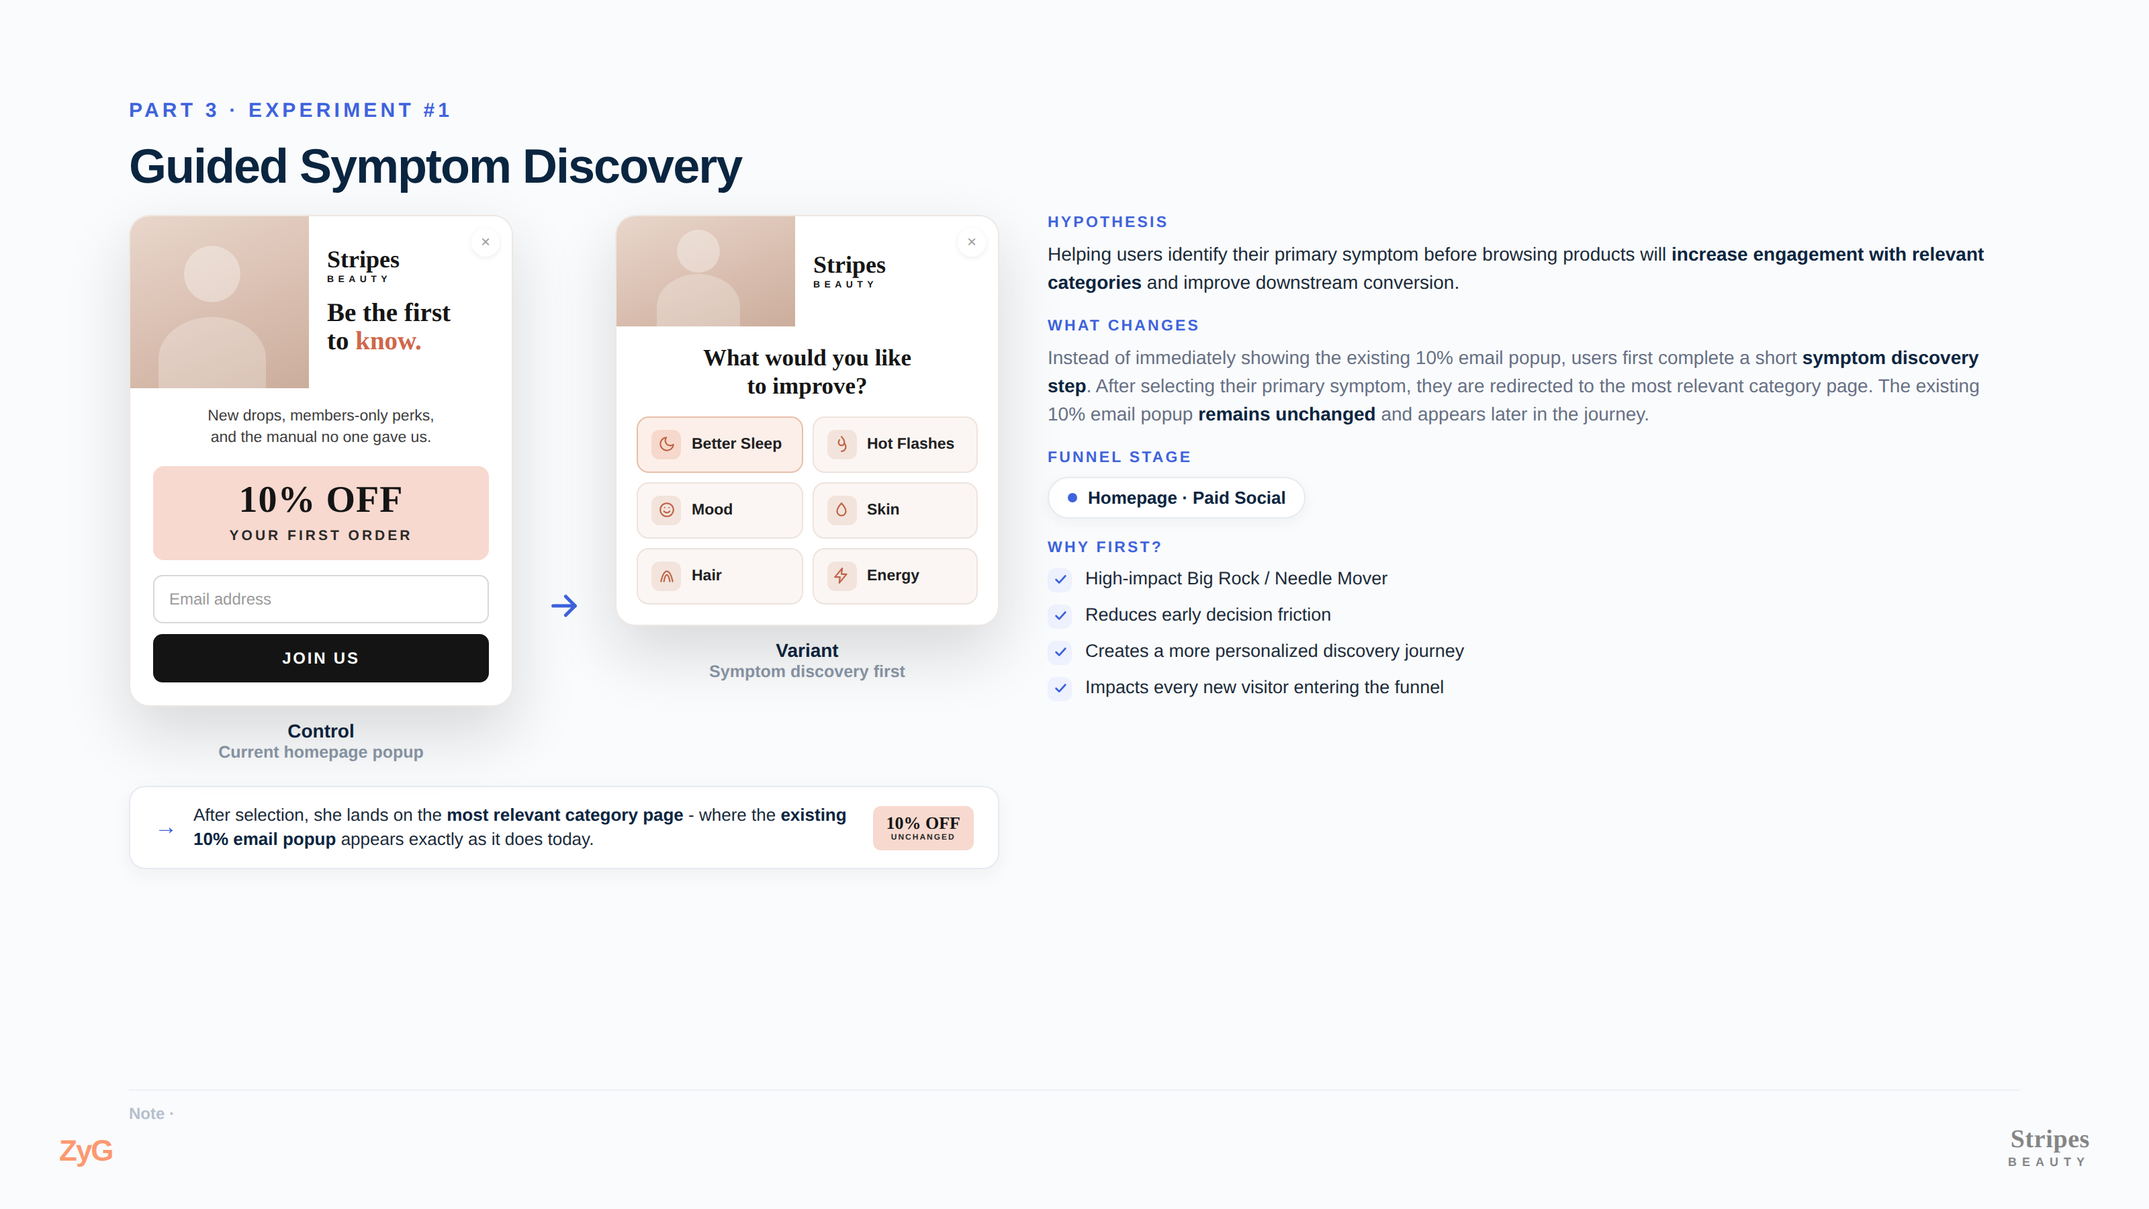
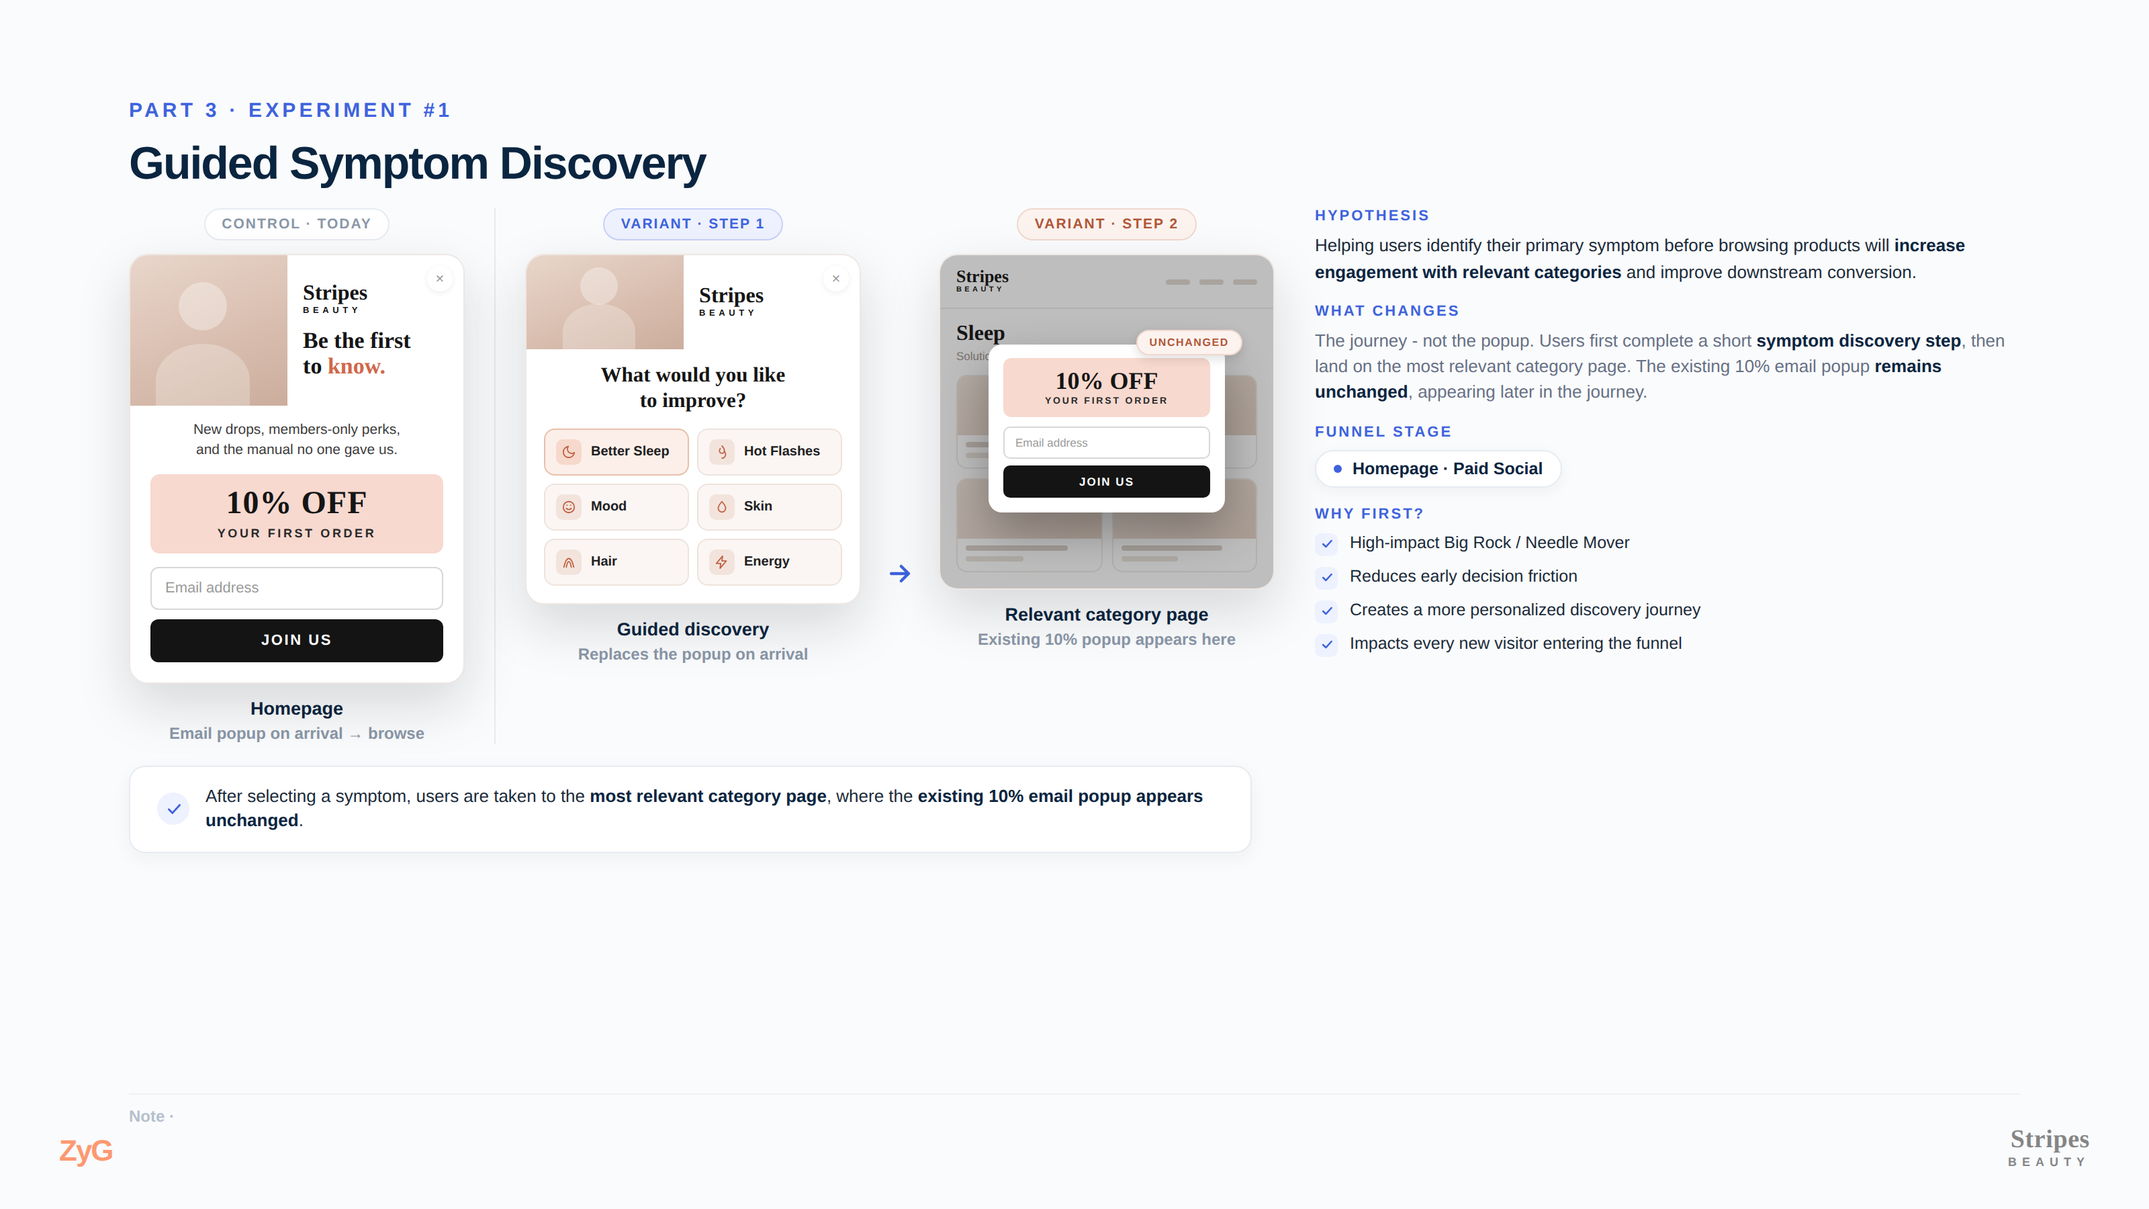
Exp 1: reframe visuals as journey change, not popup swap
Variant now shows two steps - symptom discovery modal, then the relevant
category page mock with the existing 10% popup overlaid and tagged UNCHANGED.
Step tags (Control/Variant step 1/step 2), new bottom callout sentence.

Claude-Session: https://claude.ai/code/session_01GoAG3ySswQXo2H1hh5EwTk

Changed region(s): [[0.0625, 0.1244, 0.9375, 0.7156], [0.3438, 0.4356, 0.375, 0.4667]]

diff --git a/diagrams/slides/p3-02-exp1.html b/diagrams/slides/p3-02-exp1.html
@@ -1,87 +1,116 @@
 <!doctype html><html><head><meta charset="utf-8"><link rel="stylesheet" href="style.css">
 <style>
-  .stage{display:flex;gap:36px;margin-top:16px;flex:1;align-items:flex-start;}
+  .stage{display:flex;gap:30px;margin-top:14px;flex:1;align-items:flex-start;}
 
-  /* ---- left: visual comparison ---- */
-  .mocks{display:flex;gap:24px;align-items:flex-start;}
+  /* ---- left: journey comparison ---- */
+  .mocks{display:flex;gap:18px;align-items:flex-start;}
   .mcol{display:flex;flex-direction:column;align-items:center;}
-  .cap{text-align:center;margin-top:10px;font-size:12.5px;font-weight:600;color:var(--faint);}
-  .cap b{display:block;font-size:14px;color:var(--navy);font-weight:700;margin-bottom:1px;}
-  .varrow{align-self:center;color:var(--blue);margin-top:180px;}
-  .varrow svg{width:28px;height:28px;}
+  .steptag{font-size:10.5px;font-weight:700;letter-spacing:1px;text-transform:uppercase;color:var(--faint);background:#fff;border:1px solid var(--line);border-radius:999px;padding:5px 12px;margin-bottom:10px;}
+  .steptag.new{color:var(--blue);border-color:#C7D2F7;background:var(--blue-soft);}
+  .steptag.keep{color:#B15738;border-color:#F1D8CE;background:#FCF3EF;}
+  .cap{text-align:center;margin-top:10px;font-size:12px;font-weight:600;color:var(--faint);line-height:1.35;}
+  .cap b{display:block;font-size:13.5px;color:var(--navy);font-weight:700;margin-bottom:1px;}
+  .jarrow{align-self:center;color:var(--blue);margin-top:150px;flex-shrink:0;}
+  .jarrow svg{width:22px;height:22px;}
+  .divide{width:1px;background:var(--line);align-self:stretch;margin:0 4px;}
 
-  .pop{width:286px;background:#fff;border-radius:15px;overflow:hidden;position:relative;
-    border:1px solid #EEE7E3;box-shadow:0 20px 48px rgba(20,20,20,.15);font-family:'Helvetica Neue',Arial,sans-serif;}
-  .pop .x{position:absolute;top:9px;right:9px;width:21px;height:21px;border-radius:50%;
-    background:rgba(255,255,255,.92);display:flex;align-items:center;justify-content:center;color:#9a9a9a;font-size:12px;z-index:3;box-shadow:0 1px 4px rgba(0,0,0,.08);}
+  .pop{width:250px;background:#fff;border-radius:14px;overflow:hidden;position:relative;
+    border:1px solid #EEE7E3;box-shadow:0 16px 40px rgba(20,20,20,.15);font-family:'Helvetica Neue',Arial,sans-serif;}
+  .pop .x{position:absolute;top:8px;right:8px;width:19px;height:19px;border-radius:50%;
+    background:rgba(255,255,255,.92);display:flex;align-items:center;justify-content:center;color:#9a9a9a;font-size:11px;z-index:3;box-shadow:0 1px 4px rgba(0,0,0,.08);}
   .coral{color:#D0674A;}
-  .ban{display:flex;height:128px;}
+  .ban{display:flex;height:112px;}
   .ban .photo{width:47%;position:relative;background:linear-gradient(158deg,#E9D6CB 0%,#D8BDAE 60%,#CBAd9c 100%);overflow:hidden;}
-  .ban .photo::after{content:"";position:absolute;left:46%;top:34%;transform:translate(-50%,-50%);width:42px;height:42px;border-radius:50%;background:rgba(255,255,255,.34);}
-  .ban .photo::before{content:"";position:absolute;left:46%;bottom:-9px;transform:translateX(-50%);width:80px;height:62px;border-radius:52% 52% 0 0;background:rgba(255,255,255,.26);}
-  .ban .txt{flex:1;background:#fff;display:flex;flex-direction:column;justify-content:center;padding:0 13px;}
+  .ban .photo::after{content:"";position:absolute;left:46%;top:34%;transform:translate(-50%,-50%);width:36px;height:36px;border-radius:50%;background:rgba(255,255,255,.34);}
+  .ban .photo::before{content:"";position:absolute;left:46%;bottom:-8px;transform:translateX(-50%);width:70px;height:54px;border-radius:52% 52% 0 0;background:rgba(255,255,255,.26);}
+  .ban .txt{flex:1;background:#fff;display:flex;flex-direction:column;justify-content:center;padding:0 12px;}
   .brand{line-height:1;}
-  .brand .w{font-family:Georgia,serif;font-weight:700;font-size:18px;color:#151515;}
-  .brand .b{font-size:7px;font-weight:700;letter-spacing:3.2px;color:#151515;margin-top:3px;}
-  .ban .head{font-family:Georgia,serif;font-size:19.5px;font-weight:700;color:#151515;line-height:1.08;margin-top:11px;}
-  .body{padding:13px 17px 17px;}
-  .sub{text-align:center;font-size:11.5px;color:#3d3d3d;line-height:1.45;}
-  .band{background:#F7D9CF;border-radius:8px;text-align:center;padding:12px 10px;margin-top:12px;}
-  .band .off{font-family:Georgia,serif;font-size:28px;font-weight:700;color:#151515;line-height:1;letter-spacing:.5px;}
-  .band .sm{font-size:10.5px;font-weight:600;letter-spacing:2px;color:#2a2a2a;margin-top:6px;}
-  .inp{margin-top:11px;border:1px solid #D8D8D8;border-radius:7px;padding:10px 11px;font-size:12px;color:#9a9a9a;}
-  .btn{margin-top:8px;background:#141414;color:#fff;text-align:center;border-radius:7px;padding:11px;font-size:12px;font-weight:700;letter-spacing:1.4px;}
+  .brand .w{font-family:Georgia,serif;font-weight:700;font-size:16px;color:#151515;}
+  .brand .b{font-size:6.5px;font-weight:700;letter-spacing:2.8px;color:#151515;margin-top:2px;}
+  .ban .head{font-family:Georgia,serif;font-size:17px;font-weight:700;color:#151515;line-height:1.08;margin-top:10px;}
+  .body{padding:11px 15px 15px;}
+  .sub{text-align:center;font-size:10.5px;color:#3d3d3d;line-height:1.4;}
+  .band{background:#F7D9CF;border-radius:7px;text-align:center;padding:10px 8px;margin-top:10px;}
+  .band .off{font-family:Georgia,serif;font-size:24px;font-weight:700;color:#151515;line-height:1;letter-spacing:.5px;}
+  .band .sm{font-size:9px;font-weight:600;letter-spacing:1.8px;color:#2a2a2a;margin-top:5px;}
+  .inp{margin-top:10px;border:1px solid #D8D8D8;border-radius:6px;padding:9px 10px;font-size:11px;color:#9a9a9a;}
+  .btn{margin-top:7px;background:#141414;color:#fff;text-align:center;border-radius:6px;padding:10px;font-size:11px;font-weight:700;letter-spacing:1.3px;}
 
   /* variant modal */
-  .ban.slim{height:82px;}
-  .ban.slim .photo::after{top:32%;width:32px;height:32px;}
-  .ban.slim .photo::before{width:62px;height:48px;}
+  .ban.slim{height:70px;}
+  .ban.slim .photo::after{top:32%;width:28px;height:28px;}
+  .ban.slim .photo::before{width:54px;height:42px;}
   .ban.slim .head{display:none;}
-  .qwrap{padding:13px 15px 15px;}
-  .q{font-family:Georgia,serif;font-size:17.5px;font-weight:700;color:#151515;line-height:1.2;text-align:center;}
-  .opts{margin-top:12px;display:grid;grid-template-columns:1fr 1fr;gap:7px;}
-  .opt{display:flex;align-items:center;gap:8px;background:#FBF6F3;border:1px solid #EEE3DD;border-radius:9px;padding:9px 10px;}
+  .qwrap{padding:11px 13px 13px;}
+  .q{font-family:Georgia,serif;font-size:15.5px;font-weight:700;color:#151515;line-height:1.2;text-align:center;}
+  .opts{margin-top:10px;display:grid;grid-template-columns:1fr 1fr;gap:6px;}
+  .opt{display:flex;align-items:center;gap:7px;background:#FBF6F3;border:1px solid #EEE3DD;border-radius:8px;padding:7px 8px;}
   .opt.sel{background:#FCEFE9;border-color:#E8BFA9;}
-  .opt .ic{width:22px;height:22px;border-radius:6px;background:#F2E4DC;display:flex;align-items:center;justify-content:center;color:#C06246;flex-shrink:0;}
+  .opt .ic{width:19px;height:19px;border-radius:5px;background:#F2E4DC;display:flex;align-items:center;justify-content:center;color:#C06246;flex-shrink:0;}
   .opt.sel .ic{background:#F6D9CC;}
-  .opt .ic svg{width:13px;height:13px;}
-  .opt .lb{font-size:11.5px;font-weight:600;color:#20201f;}
+  .opt .ic svg{width:11px;height:11px;}
+  .opt .lb{font-size:10px;font-weight:600;color:#20201f;}
 
-  /* after-selection strip */
-  .after{display:flex;align-items:center;gap:12px;margin-top:18px;background:#fff;border:1px solid var(--line);border-radius:12px;padding:12px 18px;box-shadow:0 4px 14px rgba(16,42,77,.05);width:648px;}
-  .after .aarr{color:var(--blue);font-size:17px;font-weight:700;flex-shrink:0;}
-  .after .t{font-size:13px;color:var(--ink);line-height:1.4;}
-  .after .t b{color:var(--navy);font-weight:700;}
-  .after .thumb{margin-left:auto;flex-shrink:0;background:#F7D9CF;border-radius:6px;padding:6px 10px;text-align:center;}
-  .after .thumb .o{font-family:Georgia,serif;font-size:13px;font-weight:700;color:#151515;line-height:1;}
-  .after .thumb .s{font-size:6px;font-weight:700;letter-spacing:1px;color:#2a2a2a;margin-top:2px;}
+  /* category page mock */
+  .page{width:250px;background:#fff;border-radius:14px;overflow:hidden;position:relative;
+    border:1px solid #EEE7E3;box-shadow:0 16px 40px rgba(20,20,20,.15);font-family:'Helvetica Neue',Arial,sans-serif;}
+  .nav{display:flex;align-items:center;justify-content:space-between;padding:9px 12px;border-bottom:1px solid #F0EAE6;}
+  .nav .brand .w{font-size:13px;}
+  .nav .brand .b{font-size:5.5px;letter-spacing:2.2px;}
+  .nav .links{display:flex;gap:7px;}
+  .nav .links span{width:18px;height:4px;border-radius:2px;background:#E4DAD3;}
+  .cat{padding:10px 12px 12px;}
+  .cat .ttl{font-family:Georgia,serif;font-size:16px;font-weight:700;color:#151515;}
+  .cat .sub2{font-size:8.5px;color:#a2968e;margin-top:2px;}
+  .grid{display:grid;grid-template-columns:1fr 1fr;gap:7px;margin-top:9px;}
+  .prod{border:1px solid #F0EAE6;border-radius:8px;overflow:hidden;}
+  .prod .im{height:44px;background:linear-gradient(150deg,#F1E4DB,#E5D2C5);}
+  .prod .ln{padding:5px 6px 7px;}
+  .prod .l1{width:80%;height:4px;border-radius:2px;background:#DAD0C8;}
+  .prod .l2{width:45%;height:4px;border-radius:2px;background:#EBE3DC;margin-top:4px;}
+  .page .dim{position:absolute;inset:0;background:rgba(20,20,20,.28);}
+  .minipop{position:absolute;left:50%;top:52%;transform:translate(-50%,-50%);width:176px;background:#fff;border-radius:10px;
+    box-shadow:0 14px 34px rgba(0,0,0,.3);padding:10px 11px 11px;z-index:4;}
+  .minipop .mband{background:#F7D9CF;border-radius:6px;text-align:center;padding:8px 6px;}
+  .minipop .off{font-family:Georgia,serif;font-size:18px;font-weight:700;color:#151515;line-height:1;}
+  .minipop .sm{font-size:7px;font-weight:600;letter-spacing:1.4px;color:#2a2a2a;margin-top:3px;}
+  .minipop .inp{margin-top:7px;padding:6px 8px;font-size:8.5px;border-radius:5px;}
+  .minipop .btn{margin-top:5px;padding:7px;font-size:8.5px;border-radius:5px;letter-spacing:1px;}
+  .unch{position:absolute;top:-11px;right:-13px;font-size:8px;font-weight:700;letter-spacing:.8px;color:#B15738;background:#FCF3EF;border:1px solid #F1D8CE;border-radius:999px;padding:4px 9px;z-index:5;box-shadow:0 3px 8px rgba(0,0,0,.12);}
 
   /* ---- right: details ---- */
   .rail{flex:1;min-width:0;}
-  .blk{margin-bottom:16px;}
-  .blk .bl{font-size:11.5px;font-weight:700;letter-spacing:1.6px;text-transform:uppercase;color:var(--blue);}
-  .blk p{font-size:14px;color:var(--ink);line-height:1.5;margin-top:7px;}
+  .blk{margin-bottom:14px;}
+  .blk .bl{font-size:11px;font-weight:700;letter-spacing:1.5px;text-transform:uppercase;color:var(--blue);}
+  .blk p{font-size:13px;color:var(--ink);line-height:1.48;margin-top:6px;}
   .blk p b{color:var(--navy);font-weight:700;}
   .blk p.mut{color:var(--muted);}
-  .chip{display:inline-flex;align-items:center;gap:8px;background:#fff;border:1px solid var(--line);border-radius:999px;padding:7px 14px;font-size:13px;font-weight:700;color:var(--navy);margin-top:8px;box-shadow:0 3px 10px rgba(16,42,77,.05);}
-  .chip .d{width:7px;height:7px;border-radius:50%;background:var(--blue);}
-  .why{margin-top:8px;display:flex;flex-direction:column;gap:8px;}
-  .wr{display:flex;gap:10px;align-items:flex-start;font-size:13.5px;color:var(--ink);line-height:1.4;}
-  .wr .ck{width:18px;height:18px;border-radius:6px;background:var(--blue-soft);display:flex;align-items:center;justify-content:center;color:var(--blue);flex-shrink:0;margin-top:1px;}
-  .wr .ck svg{width:11px;height:11px;}
+  .chip{display:inline-flex;align-items:center;gap:8px;background:#fff;border:1px solid var(--line);border-radius:999px;padding:6px 13px;font-size:12.5px;font-weight:700;color:var(--navy);margin-top:7px;box-shadow:0 3px 10px rgba(16,42,77,.05);}
+  .chip .d{width:6px;height:6px;border-radius:50%;background:var(--blue);}
+  .why{margin-top:7px;display:flex;flex-direction:column;gap:7px;}
+  .wr{display:flex;gap:9px;align-items:flex-start;font-size:12.5px;color:var(--ink);line-height:1.4;}
+  .wr .ck{width:17px;height:17px;border-radius:5px;background:var(--blue-soft);display:flex;align-items:center;justify-content:center;color:var(--blue);flex-shrink:0;margin-top:1px;}
+  .wr .ck svg{width:10px;height:10px;}
 
-  /* footnote area */
-  .note{position:absolute;left:96px;right:96px;bottom:64px;border-top:1px solid var(--line-2);padding-top:10px;font-size:12px;color:#B6C0CD;font-weight:600;}
+  .callout{margin-top:16px;background:#fff;border:1px solid var(--line);border-radius:12px;padding:13px 20px;display:flex;align-items:center;gap:12px;box-shadow:0 4px 14px rgba(16,42,77,.05);width:836px;}
+  .callout .ci2{width:24px;height:24px;border-radius:50%;background:var(--blue-soft);display:flex;align-items:center;justify-content:center;color:var(--blue);flex-shrink:0;}
+  .callout .ci2 svg{width:13px;height:13px;}
+  .callout .t{font-size:13px;color:var(--ink);line-height:1.4;}
+  .callout .t b{color:var(--navy);font-weight:700;}
+
+  .note{position:absolute;left:96px;right:96px;bottom:62px;border-top:1px solid var(--line-2);padding-top:9px;font-size:12px;color:#B6C0CD;font-weight:600;}
 </style></head><body>
 <div class="slide">
   <div class="kicker">Part 3 &middot; Experiment #1</div>
-  <div class="h1" style="font-size:36px;">Guided Symptom Discovery</div>
+  <div class="h1" style="font-size:34px;">Guided Symptom Discovery</div>
 
   <div class="stage">
-    <!-- left: comparison -->
+    <!-- left: journeys -->
     <div>
       <div class="mocks">
+        <!-- CONTROL -->
         <div class="mcol">
+          <div class="steptag">Control &middot; today</div>
           <div class="pop">
             <div class="x">&times;</div>
             <div class="ban">
@@ -101,12 +130,14 @@
               <div class="btn">JOIN US</div>
             </div>
           </div>
-          <div class="cap"><b>Control</b>Current homepage popup</div>
+          <div class="cap"><b>Homepage</b>Email popup on arrival &rarr; browse</div>
         </div>
 
-        <div class="varrow"><svg viewBox="0 0 24 24" fill="none" stroke="currentColor" stroke-width="2.2" stroke-linecap="round" stroke-linejoin="round"><path d="M5 12h14"/><path d="M13 6l6 6-6 6"/></svg></div>
+        <div class="divide"></div>
 
+        <!-- VARIANT step 1 -->
         <div class="mcol">
+          <div class="steptag new">Variant &middot; step 1</div>
           <div class="pop">
             <div class="x">&times;</div>
             <div class="ban slim">
@@ -145,14 +176,47 @@
               </div>
             </div>
           </div>
-          <div class="cap"><b>Variant</b>Symptom discovery first</div>
+          <div class="cap"><b>Guided discovery</b>Replaces the popup on arrival</div>
+        </div>
+
+        <div class="jarrow"><svg viewBox="0 0 24 24" fill="none" stroke="currentColor" stroke-width="2.4" stroke-linecap="round" stroke-linejoin="round"><path d="M5 12h14"/><path d="M13 6l6 6-6 6"/></svg></div>
+
+        <!-- VARIANT step 2 -->
+        <div class="mcol">
+          <div class="steptag keep">Variant &middot; step 2</div>
+          <div class="page">
+            <div class="nav">
+              <div class="brand"><div class="w" style="font-family:Georgia,serif;font-weight:700;color:#151515;">Stripes</div><div class="b" style="font-weight:700;color:#151515;">BEAUTY</div></div>
+              <div class="links"><span></span><span></span><span></span></div>
+            </div>
+            <div class="cat">
+              <div class="ttl">Sleep</div>
+              <div class="sub2">Solutions for deeper, cooler nights</div>
+              <div class="grid">
+                <div class="prod"><div class="im"></div><div class="ln"><div class="l1"></div><div class="l2"></div></div></div>
+                <div class="prod"><div class="im"></div><div class="ln"><div class="l1"></div><div class="l2"></div></div></div>
+                <div class="prod"><div class="im"></div><div class="ln"><div class="l1"></div><div class="l2"></div></div></div>
+                <div class="prod"><div class="im"></div><div class="ln"><div class="l1"></div><div class="l2"></div></div></div>
+              </div>
+            </div>
+            <div class="dim"></div>
+            <div class="minipop">
+              <div class="unch">UNCHANGED</div>
+              <div class="mband">
+                <div class="off">10% OFF</div>
+                <div class="sm">YOUR FIRST ORDER</div>
+              </div>
+              <div class="inp">Email address</div>
+              <div class="btn">JOIN US</div>
+            </div>
+          </div>
+          <div class="cap"><b>Relevant category page</b>Existing 10% popup appears here</div>
         </div>
       </div>
 
-      <div class="after">
-        <span class="aarr">&rarr;</span>
-        <div class="t">After selection, she lands on the <b>most relevant category page</b> - where the <b>existing 10% email popup</b> appears exactly as it does today.</div>
-        <div class="thumb"><div class="o">10% OFF</div><div class="s">UNCHANGED</div></div>
+      <div class="callout">
+        <span class="ci2"><svg viewBox="0 0 24 24" fill="none" stroke="currentColor" stroke-width="2.6" stroke-linecap="round" stroke-linejoin="round"><path d="M5 12l5 5L20 6"/></svg></span>
+        <div class="t">After selecting a symptom, users are taken to the <b>most relevant category page</b>, where the <b>existing 10% email popup appears unchanged</b>.</div>
       </div>
     </div>
 
@@ -164,7 +228,7 @@
       </div>
       <div class="blk">
         <div class="bl">What changes</div>
-        <p class="mut">Instead of immediately showing the existing 10% email popup, users first complete a short <b>symptom discovery step</b>. After selecting their primary symptom, they are redirected to the most relevant category page. The existing 10% email popup <b>remains unchanged</b> and appears later in the journey.</p>
+        <p class="mut">The journey - not the popup. Users first complete a short <b>symptom discovery step</b>, then land on the most relevant category page. The existing 10% email popup <b>remains unchanged</b>, appearing later in the journey.</p>
       </div>
       <div class="blk">
         <div class="bl">Funnel stage</div>
